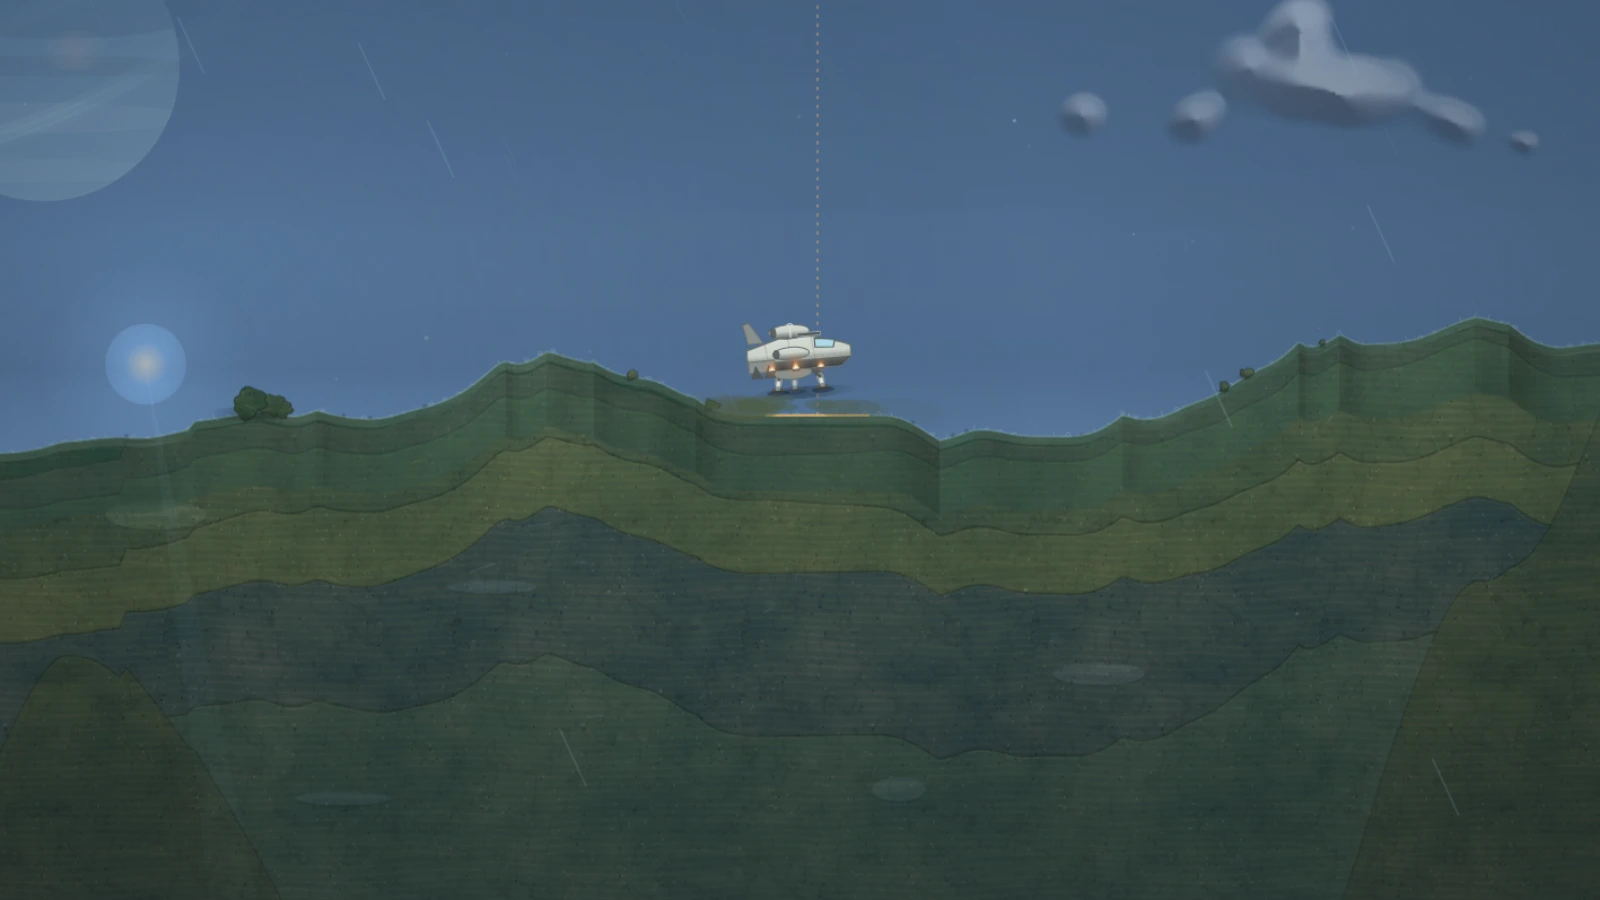
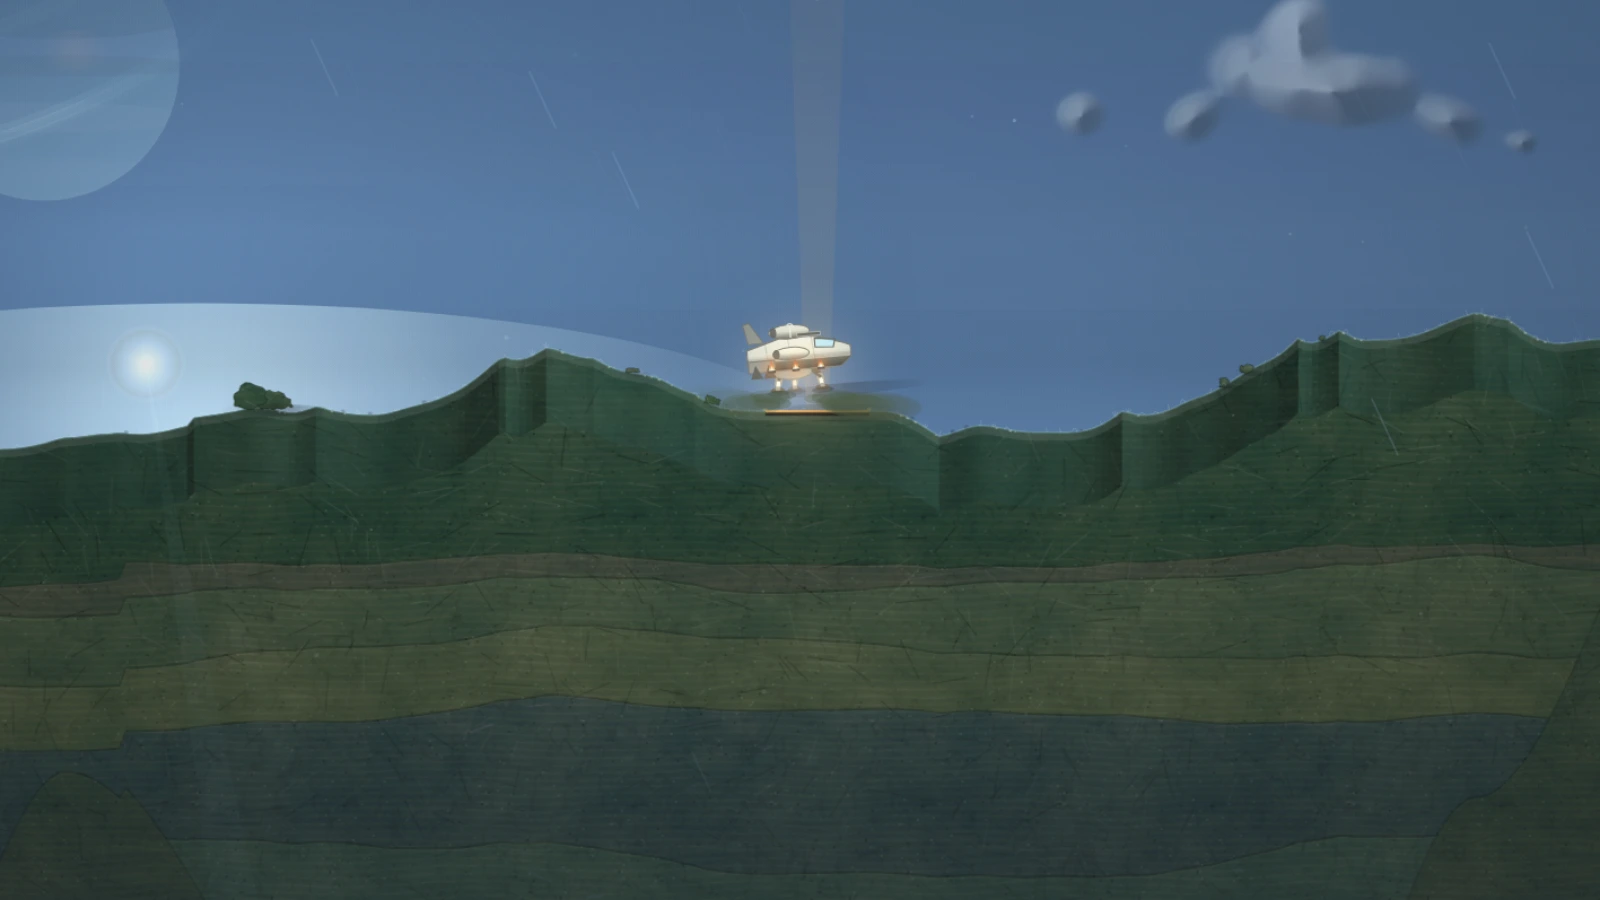
README + site: catch up with the holding and ГЛАВТРАССА (M289–M316, 0.226.0→0.313.0)
README gets two new sections (the holding, the fleet you can't buy), a rewritten
Status paragraph and version, and a refreshed test count. Site's landing checklist
and "when it gets crowded" blurb pick up the same two systems in Russian. All
README and site screenshots reshot against the current build via docs/mkshots.ps1
and docs/mksiteshots.ps1 — the picture pass since 0.226.0 (cave, station body,
home generator, day sky, system proportions, surface rocks) had left them stale.

diff --git a/site/index.html b/site/index.html
@@ -380,7 +380,9 @@
     <div class="done"><i>✓</i><span>Пилоты рядом: кто ещё едет по вашему сектору — летят попутными огоньками</span></div>
     <div class="done"><i>✓</i><span>Дом стоит на своей планете: до него доходят ногами, в него заходят и ходят по комнатам — с теми, кто там живёт</span></div>
     <div class="done"><i>✓</i><span>Снаряжение, жилец на борту, институт и экспедиция — четырнадцатый проход дописан</span></div>
-    <div class="now"><i>●</i><span>Перерисовка экранов по списку найденных огрехов: шахта, газовый гигант, комнаты базы</span></div>
+    <div class="done"><i>✓</i><span>Свой промысел на чужой станции: участок, постройки, своя баржа на маршруте</span></div>
+    <div class="done"><i>✓</i><span>ГЛАВТРАССА: флот из тринадцати классов ходит по трассам сам, его окликают, а не покупают</span></div>
+    <div class="now"><i>●</i><span>Игру смотрят заново кадр за кадром — где глаз ещё цепляется, там и правят</span></div>
   </div>
 </section>
 

diff --git a/site/mechanics.html b/site/mechanics.html
@@ -256,7 +256,9 @@ kbd{display:inline-block;min-width:25px;padding:2px 7px;text-align:center;
         Игра не заканчивается — она меняет масштаб. Сначала выжить, потом
         заработать, потом обустроить кусок галактики под себя: своя база с
         отсеками, второй корабль, грузовая баржа, поселение, которое само решает,
-        что построить на присланное вами.
+        что построить на присланное вами, свой промысел на чужой станции —
+        и по дальним трассам уже ходит флот, который к вам не имеет отношения:
+        его окликают, у него просят дозаправку и буксир, но не покупают.
       </p>
     </section>
 

diff --git a/README.md b/README.md
@@ -227,6 +227,26 @@ silhouette from the type, details from the system seed: warehouse pods and cargo
 furnaces with a flare stack, an open slipway with a crawling crane, dish antennas and radiator
 grids, gun turrets, or a bare tank.
 
+### The holding
+
+A station can offer you a build of your own on its ground — not a shop purchase but a **route
+bought as an order**: you commit a barge to hauling it, and the station's own appetite for what
+it needs sets the pace, not a price you negotiate.
+
+- **The site grows by building** — eighty-two buildings across nine families, forty-eight
+  materials feeding them, each one unlocking against the station's real need for it rather than
+  a tech-tree gate.
+- **A ladder of rank** opens further reach as turnover accrues — further routes, the fleet on
+  the trunk lines starting to hail you first, eventually a node station of its own.
+- **Your own barge** works the route the way a drone works a deposit: on the same lazy clock,
+  visible in the log, never simulated in real time while you are elsewhere.
+- **The station's body changes.** What you feed it shows — a dump, a dome, a strip on the day
+  side — so the place looks different for having you in it.
+- **News travels.** What the holding does becomes rumour told in someone else's words at other
+  stations, and rival barges compete for the same road once it is worth having.
+- **What is built is never for sale.** Knowledge of a road can change hands; your mark on the
+  world cannot.
+
 ### Crew and fleet
 
 Old hulls in your hangar stop being dead weight: **a hire needs one of your ships**, which is
@@ -404,6 +424,27 @@ touching down too fast, too sideways, tilted or on a slope costs hull.
   of your own, and a galaxy without occupied systems. All three are counted from real state,
   with no quest flags.
 
+### The fleet you can't buy
+
+The long lines between systems carry traffic that has nothing to do with you: **ГЛАВТРАССА**, a
+transport service running its own schedule under one grey-and-red livery, thirteen ship classes
+each drawn from a distinct working silhouette — mail sphere, tanker, tug, rescue ship, hospital
+ship, school ship, floating base and more.
+
+- **Nothing is simulated.** A ship's position is a function of its line, its seed and the clock,
+  the same trick as trade barges — nothing tracked while you are elsewhere, nothing recomputed
+  that would move it.
+- **Hail one** and it answers in its class's own voice; fuel comes free "по норме" once a shift,
+  with no ledger of debt.
+- **A tow** takes a hull that will not make it home to a yard instead of leaving it stranded.
+- **Convoy with one** and pirates stop seeing you, at the fleet's own, slower pace.
+- **A rescuer calls you to a barge in distress** it has already found, gives you the course, and
+  leaves the choice of whether to follow entirely yours.
+- **The ladder of rank changes what you meet** — a node station of the trunk lines past a
+  threshold, a black, nameless derelict in the far dangerous sectors, the fleet hailing you
+  first once you are known on the line.
+- Routes worth travelling show as red-and-white dashed lines on the galaxy map.
+
 ### Work that pays
 
 The cantina seats people with their own business, and none of it is "bring me ten ore". You
@@ -533,7 +574,7 @@ powershell -ExecutionPolicy Bypass -File build.ps1
 ```
 
 The same build produces `tests.html` — open it in a browser and it runs the suites against the
-real game state (currently ~11 800 assertions across 379 suites, nothing mocked) and prints the
+real game state (currently ~13 000 assertions across 441 suites, nothing mocked) and prints the
 report on the page; `test.ps1` runs the same thing headless.
 
 Module order matters: the whole game shares one scope, so constants and tables must be declared
@@ -547,7 +588,7 @@ portable save codes.
 
 ## Status
 
-Version 0.224.0. Everything described above is built and playable, online at
+Version 0.313.0. Everything described above is built and playable, online at
 [drift-game.ru](https://drift-game.ru) with accounts and cloud saves, or offline from this file.
 
 Four development passes are behind it. The first finished the planned queue: celestial
@@ -576,6 +617,14 @@ faces and windows that close quietly, and an ending that is never explained — 
 a full cosmetic audit under eight laws (every light has a source, everything standing casts a
 shadow, work is visible, motion never blinks). Noon finally looks like noon: the sky, the
 shadows and the light all know the hour. The frame holds 60 fps in all nine modes.
+
+A fifth push (M289–M316) gave the galaxy its own economy and its own traffic: **the holding**
+(landing a build of your own on someone else's station, bought as a route rather than priced,
+growing against what the station actually needs) and **the fleet you can't buy** (thirteen
+classes of state ships working the long lines on their own schedule, hailed rather than hired).
+Alongside it, another pass over the picture itself — the cave, the station's own body, the home
+as a generator instead of a fixed plan, a day sky that knows the hour, the system's true
+proportions, and a surface where rocks and rock faces stopped repeating.
 
 Nothing is queued. The game lives as a sandbox; new work starts from the author's eye.
 Balance is tuned against measurements, so the numbers move between versions.
